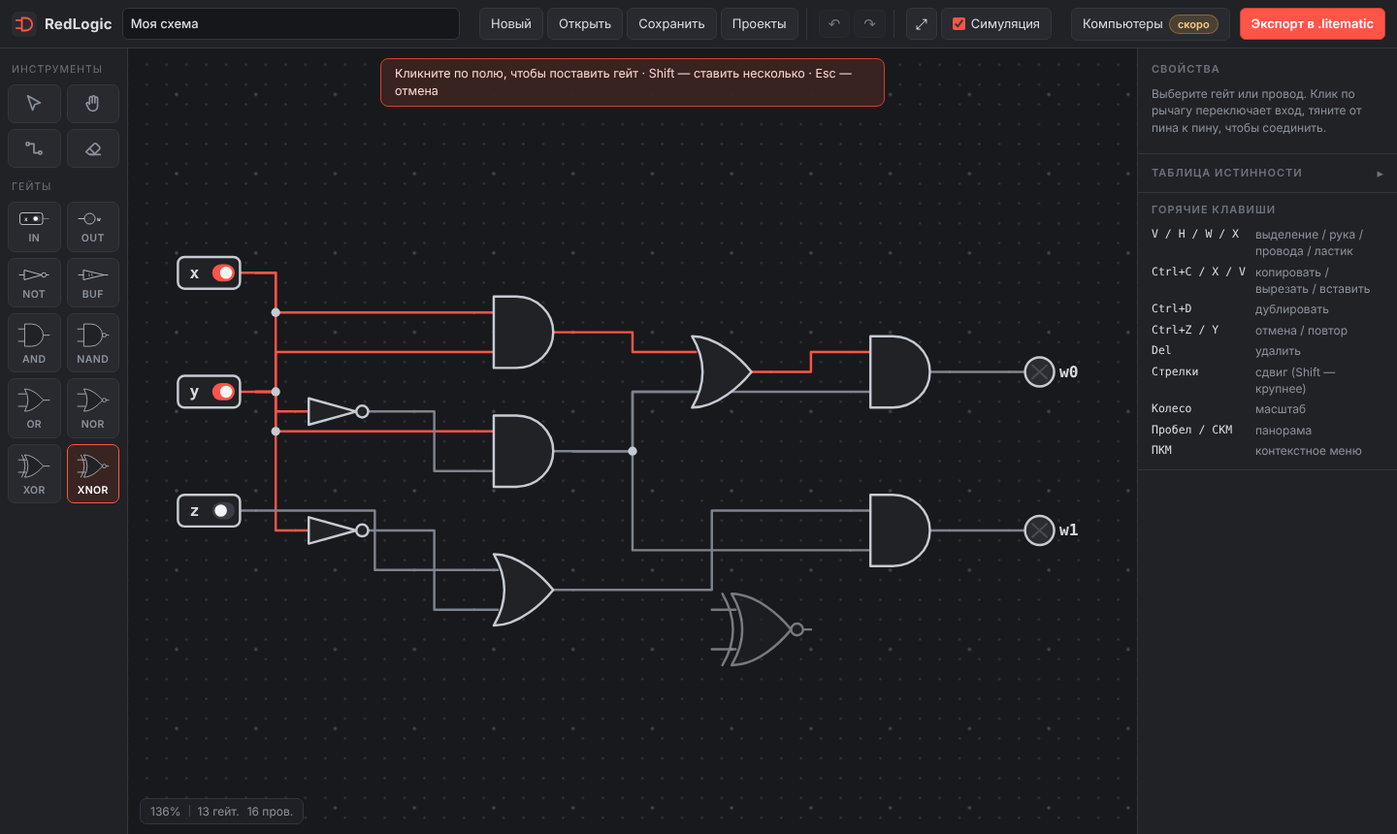
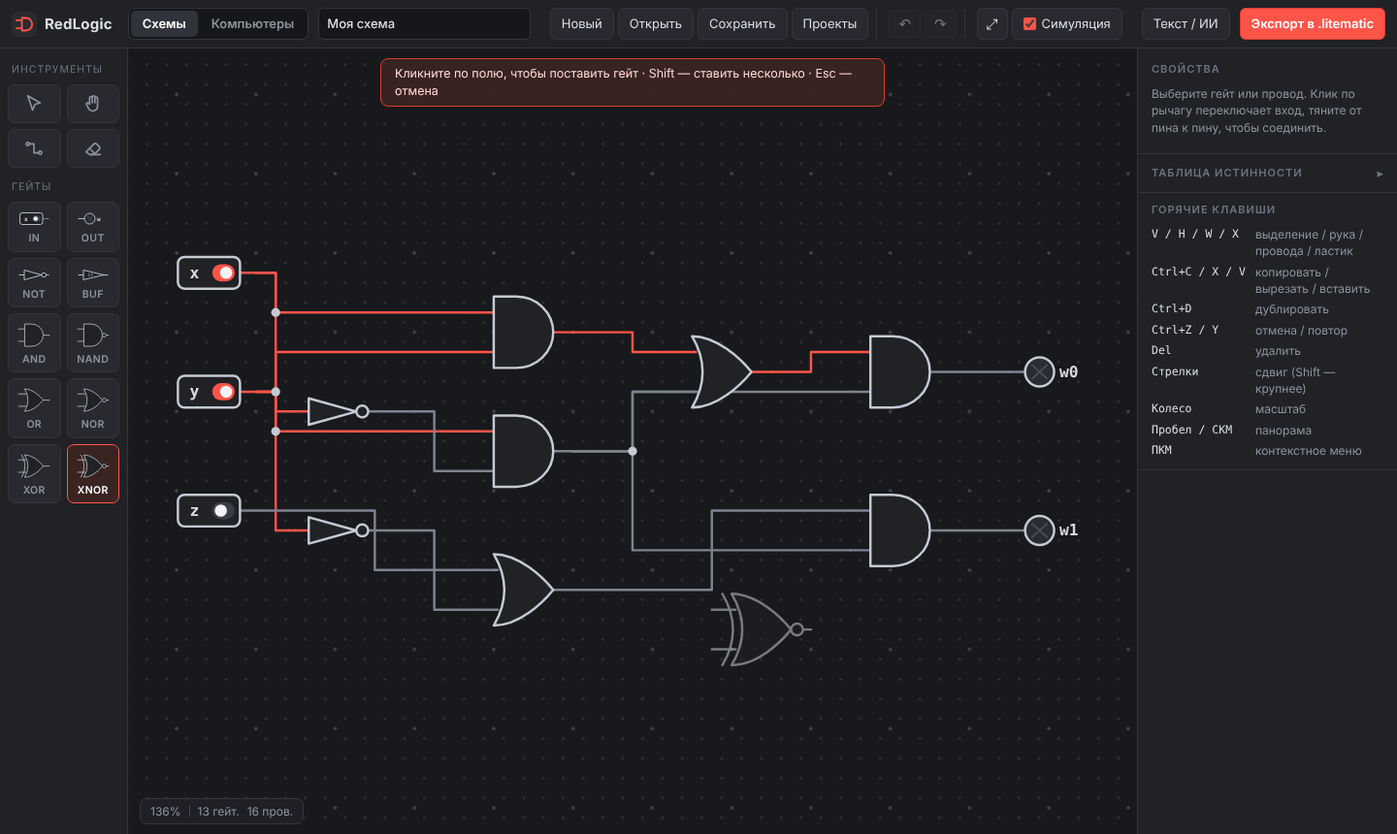
Computers tab: hardware step polish, error boundary, fuzz test, README, screenshots, artifact builder
Claude-Session: https://claude.ai/code/session_01BQ5NneZpwK4Aq2ZV9LEa2A

diff --git a/tests/computer/fuzz.test.ts b/tests/computer/fuzz.test.ts
@@ -1,0 +1,64 @@
+import { describe, it, expect } from 'vitest';
+import { newProject } from '../../src/computer/project';
+import { normalizeSpec } from '../../src/computer/store';
+import { buildPresetIsa, validateIsa } from '../../src/computer/isa';
+import { validateSpec, DEVICE_ORDER, makeDevice } from '../../src/computer/spec';
+import { assemble } from '../../src/computer/asm';
+import { Machine } from '../../src/computer/sim';
+import { buildRom, DEFAULT_ROM_OPTIONS } from '../../src/computer/rom';
+import { generatePython } from '../../src/computer/pyexport';
+import { computerMarkdown, writeProgramPrompt, designComputerPrompt } from '../../src/computer/docs';
+import { HARDWARE } from '../../src/computer/hardware';
+import { EXAMPLES } from '../../src/computer/examples';
+import { ALL_ALU_OPS } from '../../src/computer/types';
+import { rng } from '../helpers';
+
+/** Случайные (в том числе заведомо неверные) характеристики не должны ронять ни один слой — только давать замечания. */
+describe('computer pipeline never throws on odd specs', () => {
+  it('fuzz: spec → ISA → assemble → run → ROM → docs → hardware', () => {
+    const r = rng(20261019);
+    const pick = <T,>(a: T[]): T => a[Math.floor(r() * a.length)];
+    for (let it = 0; it < 150; it++) {
+      const p = newProject(pick(['risc8', 'acc4', 'risc16'] as const));
+      const spec = normalizeSpec({
+        ...p.spec,
+        arch: r() < 0.3 ? 'accumulator' : 'register',
+        dataBits: 2 + Math.floor(r() * 15),
+        regCount: pick([1, 2, 4, 8, 16, 3]),
+        instrBits: 8 + Math.floor(r() * 25),
+        opcodeBits: 1 + Math.floor(r() * 8),
+        pcBits: 1 + Math.floor(r() * 9),
+        romWords: 1 + Math.floor(r() * 200),
+        ramAddrBits: 1 + Math.floor(r() * 10),
+        ramWords: Math.floor(r() * 300),
+        flags: (['Z', 'C', 'N', 'V'] as const).filter(() => r() < 0.6),
+        aluOps: ALL_ALU_OPS.filter(() => r() < 0.5),
+        stack: { enabled: r() < 0.5, words: Math.floor(r() * 40) },
+        devices: DEVICE_ORDER.filter(() => r() < 0.4).map((t) => makeDevice(t)),
+      });
+      p.spec = spec;
+      validateSpec(spec);
+      const { instructions } = buildPresetIsa(spec);
+      p.instructions = instructions;
+      validateIsa(spec, instructions);
+      for (const ex of EXAMPLES[spec.arch === 'accumulator' ? 'acc4' : 'risc8']) {
+        const a = assemble(ex.source, spec, instructions, p.asm);
+        const m = new Machine(spec, instructions, a.words);
+        m.run(300);
+        if (a.ok && a.size > 0) buildRom(a.words.slice(0, a.size), spec, DEFAULT_ROM_OPTIONS);
+      }
+      generatePython(p);
+      computerMarkdown(p);
+      writeProgramPrompt(p, 'test');
+      for (const g of HARDWARE) {
+        try {
+          g.build(Object.fromEntries(g.params(p).map((x) => [x.id, x.value])), p);
+        } catch (e) {
+          // допустимо: понятная ошибка «слишком длинный код операции» и т. п.
+          expect((e as Error).message).toMatch(/[А-Яа-я]/);
+        }
+      }
+    }
+    expect(designComputerPrompt('x').length).toBeGreaterThan(1000);
+  }, 120000);
+});

diff --git a/src/computer/ui/ComputersTab.tsx b/src/computer/ui/ComputersTab.tsx
@@ -1,4 +1,5 @@
 import './computer.css';
+import { Component, ReactNode } from 'react';
 import { STEPS, Step, useComputer } from '../store';
 import { validateSpec } from '../spec';
 import { validateIsa } from '../isa';
@@ -9,6 +10,31 @@ import { ProgramStep } from './ProgramStep';
 import { RomStep } from './RomStep';
 import { AiStep } from './AiStep';
 import { HardwareStep } from './HardwareStep';
+
+/** Ошибка в одном шаге не должна ронять всё приложение. */
+class StepBoundary extends Component<{ step: Step; children: ReactNode }, { error: Error | null }> {
+  state = { error: null as Error | null };
+  static getDerivedStateFromError(error: Error) {
+    return { error };
+  }
+  componentDidUpdate(prev: { step: Step }) {
+    if (prev.step !== this.props.step && this.state.error) this.setState({ error: null });
+  }
+  render() {
+    if (!this.state.error) return this.props.children;
+    return (
+      <div className="cs-page">
+        <div className="badge bad">
+          <b>Этот шаг не смог открыться:</b> {this.state.error.message}
+          <div className="cs-actions" style={{ marginTop: 8 }}>
+            <button className="btn" onClick={() => useComputer.getState().setStep('spec')}>К характеристикам</button>
+            <button className="btn" onClick={() => this.setState({ error: null })}>Попробовать снова</button>
+          </div>
+        </div>
+      </div>
+    );
+  }
+}
 
 export function ComputersTab() {
   const step = useComputer((s) => s.step);
@@ -42,6 +68,7 @@ export function ComputersTab() {
         </div>
       </nav>
       <main className="cs-content">
+        <StepBoundary step={step}>
         {step === 'spec' && <SpecStep />}
         {step === 'isa' && <IsaStep />}
         {step === 'asm' && <AsmStep />}
@@ -49,6 +76,7 @@ export function ComputersTab() {
         {step === 'rom' && <RomStep />}
         {step === 'hw' && <HardwareStep />}
         {step === 'ai' && <AiStep />}
+        </StepBoundary>
       </main>
     </div>
   );

diff --git a/src/computer/ui/HardwareStep.tsx b/src/computer/ui/HardwareStep.tsx
@@ -2,6 +2,7 @@ import { useMemo, useState } from 'react';
 import { useComputer } from '../store';
 import { HARDWARE } from '../hardware';
 import { parseNetlist } from '../../model/netlist';
+import { hasCycle } from '../../sim/logic';
 import { applyCircuit } from '../../ui/NetlistDialog';
 import { useMode } from '../../ui/mode';
 import { useEditor } from '../../editor/store';
@@ -78,6 +79,11 @@ export function HardwareStep() {
               ))}
             </div>
             {built.error && <div className="badge bad">{built.error}</div>}
+            {built.parsed?.circuit && hasCycle(built.parsed.circuit) && (
+              <div className="badge bad">
+                В схеме есть обратные связи (защёлки): в редакторе она считается и показывает сигналы, но экспорт в .litematic для таких схем пока не поддерживается.
+              </div>
+            )}
             {built.parsed && (
               <>
                 <div className={`badge ${gates > 60 ? 'bad' : 'ok'}`}>

diff --git a/src/computer/hardware.ts b/src/computer/hardware.ts
@@ -231,7 +231,7 @@ export const HARDWARE: HardwareGenerator[] = [
   {
     id: 'reg',
     title: 'Регистр на защёлках',
-    desc: 'Хранит число, пока we=0; пока we=1 повторяет вход. Из таких собираются регистры и аккумулятор.',
+    desc: 'Хранит число, пока we=0; пока we=1 повторяет вход. Из таких собираются регистры и аккумулятор. Только для симуляции в редакторе: экспорт схем с обратными связями пока недоступен.',
     params: (p) => [bitsParam('Разрядность', 8, Math.min(p.spec.dataBits, 4))],
     build: (v) => latchRegisterNetlist(v.bits),
   },

diff --git a/tests/helpers.ts b/tests/helpers.ts
@@ -28,7 +28,7 @@ export function ascii(res: CompileResult): string {
   return lines.join('\n');
 }
 
-function rng(seed: number) {
+export function rng(seed: number) {
   let a = seed >>> 0;
   return () => {
     a = (a + 0x6d2b79f5) >>> 0;

diff --git a/README.md b/README.md
@@ -27,8 +27,46 @@
 - Предпросмотр: объёмный и по слоям, с подписями входов и выходов.
 - Перед скачиванием схема **проверяется**: редстоун-симулятор прогоняет все комбинации входов и сравнивает с логикой.
 
-**Заглушка:** «Редстоун-компьютеры» — окно с настройками (разрядность, регистры, ПЗУ/ОЗУ, набор инструкций, такт);
-генератор подключается через интерфейс `ComputerGenerator` (`src/computers`).
+**Текст вместо рисования.** Схему можно описать текстом (`input a b` / `s = XOR(a, b)` / `output sum = s`) — «Текст / ИИ»:
+вставить ответ нейросети (гейты расставляются сами), скопировать текущую схему как текст или взять готовый промпт для ИИ.
+
+![Схема из текста](docs/screenshots/22-circuit-netlist.png)
+
+## Компьютеры (отдельная вкладка)
+
+Переключатель **Схемы | Компьютеры** вверху. Во вкладке «Компьютеры» — пошаговый конструктор собственного компьютера:
+
+1. **Характеристики.** При первом заходе компьютер «спрашивает» параметры: заготовка (Мини-4, Учебный-8, Учебный-16) или свои:
+   архитектура (регистровая/аккумуляторная), разрядность 2–16 бит, число регистров, ширина команды и код операции, размеры ПЗУ и ОЗУ,
+   флаги (Z C N V), операции АЛУ, стек, такт и **устройства**: светодиоды, рычаги, кнопки, 7-сегментный индикатор, текстовый и
+   пиксельный экраны, клавиатура, таймер, генератор случайных чисел, нотный блок, терминал. Устройства отображаются в памяти данных (порты).
+2. **Инструкции** — конструктор: каталог функционала (фильтруется по характеристикам), блоки «вычислить / прочитать / записать /
+   перейти / вызвать…» превращаются в **псевдокод** и исполняемый **RTL-код**; можно писать RTL вручную. Карта кодов операций, схема
+   битов слова, проверка на примере («r0=5 → r0=6»), валидация.
+3. **Ассемблер** строится по набору команд и существует в двух видах: встроенный (в браузере) и **Python-файл** (`assembler.py`:
+   ассемблер, дизассемблер, эмулятор; можно править). Синтаксис одинаков — сверено тестами «Python ↔ TypeScript».
+4. **Программы** — редактор (подсветка, номера строк, ошибки, точки останова), листинг, образ ПЗУ и **симулятор**: запуск, шаг,
+   скорость, регистры, флаги, память, трасса и живые устройства.
+5. **ПЗУ из бочек** — генератор `.litematic`: слово программы хранится в бочках по 4 бита, сила сигнала компаратора = значение.
+   Настраиваются предметы (стакающиеся/нет), порядок бочек, раскладка, компараторы, пыль; экспорт `.hex`, `.json`, `.md` с картой адресов.
+6. **Аппаратура** — генераторы схем для узлов процессора (дешифратор команд по вашему набору, дешифратор адреса, сумматор,
+   сравнение, мультиплексор, регистр на защёлках) — открываются в редакторе схем.
+7. **ИИ и документация** — документы `docs/ai/` (форматы JSON компьютера, RTL, ассемблер, нетлист) и промпты: «придумай процессор»,
+   «напиши программу» (подставляет ваш набор команд, карту памяти, устройства), «составь схему». Импорт ответа ИИ с отчётом об ошибках
+   и готовым запросом на исправление.
+
+Автосохранение в браузере; файл компьютера `.rlcomputer.json` (кнопки «Сохранить» / «Открыть» вверху).
+
+| Характеристики | Конструктор инструкций |
+|---|---|
+| ![](docs/screenshots/10-computers-spec.png) | ![](docs/screenshots/12-computers-isa.png) |
+| **Симулятор с экраном** | **ПЗУ из бочек** |
+| ![](docs/screenshots/15-computers-simulator-hello.png) | ![](docs/screenshots/17-computers-rom-iso.png) |
+
+Подробно о форматах для ИИ — [`docs/ai/README.md`](docs/ai/README.md). Пример ПЗУ: [`docs/examples/rom_example.litematic`](docs/examples/rom_example.litematic).
+
+> **Что не делается автоматически.** Из набора команд не синтезируется физический процессор из редстоуна: приложение даёт симулятор,
+> ассемблер, ПЗУ-бочки и схемы отдельных узлов; собрать их в единый процессор — задача строителя (или нейросети по промпту).
 
 ## Запуск
 
@@ -66,7 +104,9 @@ npm test             # модульные тесты
 ```
 
 Ключевые файлы: `src/compiler/` (techmap, place, route, compile), `src/redstone/` (симулятор правил игры),
-`src/export/` (NBT и Litematica), `src/editor/` (холст, хранилище), `src/ui/` (панели и диалоги).
+`src/export/` (NBT и Litematica, в т. ч. блок-сущности: содержимое бочек), `src/editor/` (холст, хранилище), `src/ui/` (панели и диалоги),
+`src/model/netlist.ts` (текстовый формат схем), `src/computer/` (спецификация, RTL, набор команд, ассемблеры, симулятор, устройства,
+ПЗУ из бочек, генераторы аппаратуры, промпты) и `src/computer/ui/` (шаги вкладки).
 
 ## Как проверено
 
@@ -76,12 +116,20 @@ npm test             # модульные тесты
    рычаги переключаются перебором, лампы сверяются с таблицей истинности, а записанные состояния пыли/факелов/
    повторителей сравниваются с тем, что насчитал игровой движок. Проверены все гейты, все варианты, 2–4 входа,
    случайные схемы и пример. Запуск: `npm run verify:mc` (нужны Java 25, `server.jar` 26.2, RCON на 25575).
-4. **Браузер**: `scripts/e2e.mjs` (Playwright) — расстановка, провода, перетаскивание, копирование, отмена,
-   меню, сохранение/загрузка, экспорт; `scripts/screenshots.mjs` — скриншоты в `docs/screenshots/`.
+4. **ПЗУ из бочек на настоящем сервере 26.2** (`scripts/mc_verify_rom.py`): файл читается Litemapy, блоки и предметы расставляются,
+   сила сигнала за каждым компаратором сверяется со значением ниббла. Проверены обе раскладки, стакающиеся и нестакающиеся предметы
+   и файл, скачанный из интерфейса.
+5. **Компьютеры**: интерпретатор RTL и ассемблер сверены с независимым Python-эмулятором; документы `docs/ai/` проверяются тестами
+   (примеры нетлистов и ассемблера, таблица RTL, JSON-пример); генераторы аппаратуры проверены перебором входов и компиляцией.
+6. **Браузер**: `scripts/e2e.mjs` и `scripts/e2e-computers.mjs` (Playwright) — расстановка, провода, перетаскивание, копирование,
+   отмена, меню, сохранение/загрузка, экспорт; вкладка «Компьютеры» целиком (конструктор, симулятор, ПЗУ, импорт ИИ, нетлист);
+   `scripts/screenshots.mjs` — скриншоты в `docs/screenshots/`.
 
 ## Ограничения и планы
 
 - Схемы с обратными связями (защёлки, триггеры, генераторы тактов) пока не экспортируются — в редакторе они считаются.
 - Сигнал идёт слева направо; модули не поворачиваются. Входы NOR-блока — до 3, большие гейты собираются деревом.
 - Проверка в Litematica на самом клиенте не автоматизирована: формат файла сверен с Litemapy, поведение — с сервером.
-- Далее: триггеры и защёлки, шины, генератор редстоун-компьютеров.
+- Сборка процессора из узлов — вручную: приложение не синтезирует редстоун-процессор из набора команд.
+- Схемы-защёлки из генератора аппаратуры можно смоделировать в редакторе, но в `.litematic` они пока не экспортируются (обратные связи).
+- Далее: триггеры и защёлки в экспорте, шины, генерация узлов процессора целиком.

diff --git a/docs/ai/README.md b/docs/ai/README.md
@@ -41,4 +41,6 @@
 * ✔ симулирует процессор по вашему описанию команд, проверяет ассемблер, показывает дисплеи/светодиоды/клавиатуру;
 * ✔ генерирует `.litematic` с ПЗУ из бочек (сила сигнала компаратора = значение 4-битной ячейки) — проверено на сервере 26.2;
 * ✔ генерирует `.litematic` для логических схем (гейты на редстоуне) — также проверено на сервере;
-* ✘ **не** синтезирует из набора команд физический процессор из редстоуна — процессор вы собираете из схем (декодер, АЛУ, регистры — в редакторе схем) и подключаете к ПЗУ-бочкам.
+* ✔ на шаге «Аппаратура» генерирует схемы отдельных узлов (дешифратор команд по вашему набору, дешифратор адреса, сумматор, сравнение, мультиплексор, регистр) — они открываются в редакторе схем;
+* ✘ **не** синтезирует из набора команд целый физический процессор из редстоуна — узлы собираются в процессор вручную (или по промпту с помощью ИИ) и подключаются к ПЗУ-бочкам;
+* ✘ схемы с обратными связями (защёлки, триггеры) пока можно только симулировать в редакторе — в `.litematic` они не экспортируются.
